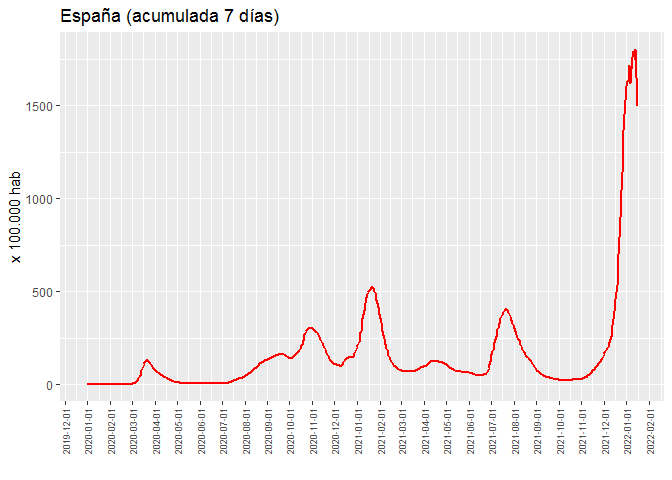
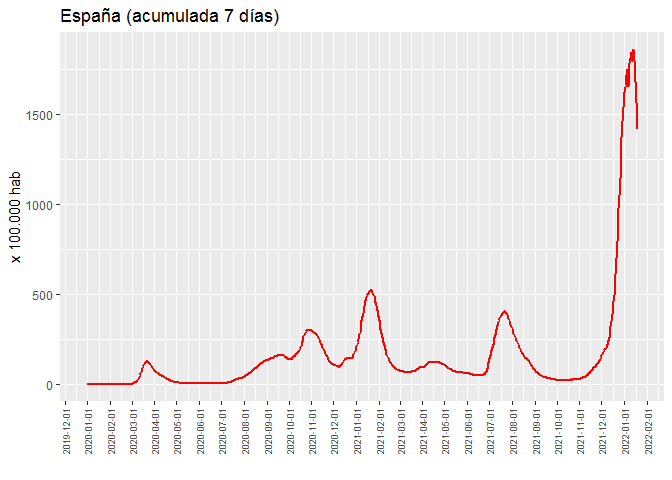
update

diff --git a/README.md b/README.md
@@ -1,7 +1,7 @@
 Covid-19: Incidencia acumulada
 ================
 JMSS \[Usal - CIC\]
-(updated: 18 ene 2022)
+(updated: 21 ene 2022)
 
 ### Incidencia acumulada del Covid19 por cada 100.000 habitantes
 
